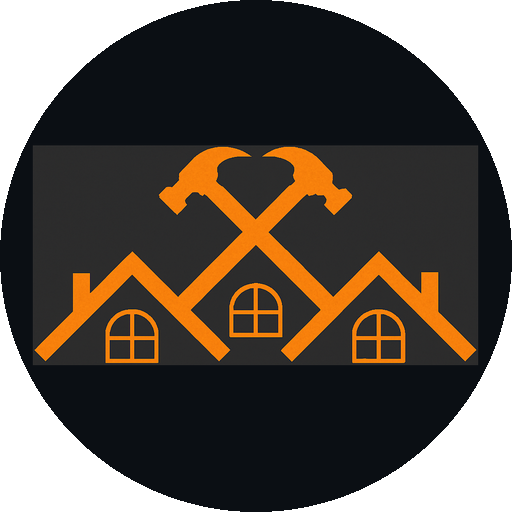
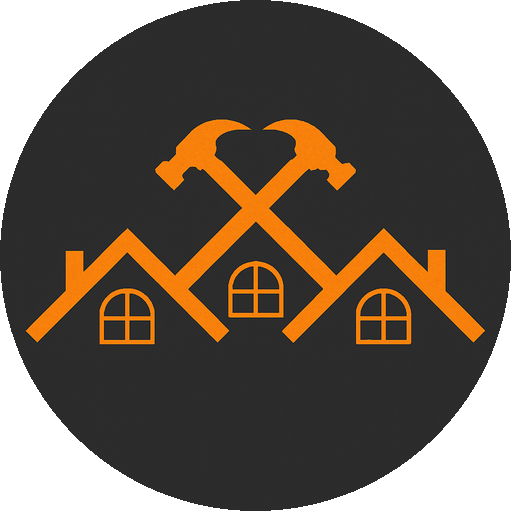
adsf

diff --git a/server/index.ts b/server/index.ts
@@ -1,4 +1,4 @@
-// Load dotenv configuration before anything else (safe in all envs)
+// Load dotenv configuration before anything else (safe in all envs)
 import "dotenv/config";
 
 import express, { type Request, Response, NextFunction } from "express";
@@ -401,7 +401,7 @@ if (!isProductionEnv) {
 
 const corsOptions: cors.CorsOptions = {
   origin: (origin, callback) => {
-    // No origin (curl/server-side) â†’ allow
+    // No origin (curl/server-side) → allow
     if (!origin) return callback(null, true);
     const normalized = origin.toLowerCase();
 
@@ -448,7 +448,7 @@ app.use(cors(corsOptions));
 // Preflight handler
 app.options("*", cors(corsOptions));
 
-// Core body parsing â€“ MUST come before any API routes
+// Core body parsing – MUST come before any API routes
 const bodyLimit = process.env.JSON_BODY_LIMIT || "1mb";
 app.use(express.json({ limit: bodyLimit }));
 app.use(express.urlencoded({ extended: true, limit: bodyLimit }));
@@ -779,14 +779,14 @@ app.use(botReadOnlyGuard);
     <meta charset="UTF-8" />
     <meta http-equiv="refresh" content="2;url=/?__fresh=${fresh}" />
     <meta name="viewport" content="width=device-width, initial-scale=1" />
-    <title>Resetting TradeScoutâ€¦</title>
+    <title>Resetting TradeScout…</title>
     <style>
       body{font-family:system-ui,-apple-system,Segoe UI,Roboto,Inter,Arial,sans-serif;padding:24px;max-width:720px;margin:0 auto;line-height:1.5}
       code{background:#1118270d;padding:2px 6px;border-radius:6px}
     </style>
   </head>
   <body>
-    <h1>Resetting TradeScoutâ€¦</h1>
+    <h1>Resetting TradeScout…</h1>
     <p>Your browser cache and service worker are being cleared.</p>
     <p>If you are not redirected automatically, open <a href="/?__fresh=${fresh}">the homepage</a>.</p>
   </body>
@@ -803,7 +803,7 @@ app.use(botReadOnlyGuard);
   <head>
     <meta charset="UTF-8" />
     <meta name="viewport" content="width=device-width, initial-scale=1" />
-    <title>Resetting Themeâ€¦</title>
+    <title>Resetting Theme…</title>
     <style>
       body{font-family:system-ui,-apple-system,Segoe UI,Roboto,Inter,Arial,sans-serif;padding:24px;max-width:720px;margin:0 auto;line-height:1.5}
       code{background:#1118270d;padding:2px 6px;border-radius:6px}
@@ -811,9 +811,9 @@ app.use(botReadOnlyGuard);
     </style>
   </head>
   <body>
-    <h1>Resetting themeâ€¦</h1>
+    <h1>Resetting theme…</h1>
     <p class="muted">Resetting your saved color scheme + theme preference back to default.</p>
-    <pre id="log" class="muted">Workingâ€¦</pre>
+    <pre id="log" class="muted">Working…</pre>
     <script>
       (async () => {
         const logEl = document.getElementById('log');
@@ -878,7 +878,7 @@ app.use(botReadOnlyGuard);
 
               // Legacy social preview image path compatibility.
               app.get("/tradescout-logo.jpg", (_req, res) => {
-                res.redirect(301, "/tradescout-logo-circle.png?v=7");
+                res.redirect(301, "/tradescout-brand.png?v=8");
               });
 
               app.get(Array.from(identityAssets), (req, res, next) => {
@@ -1462,7 +1462,7 @@ app.use(botReadOnlyGuard);
                 }
 
                 // If an asset was requested but not found by express.static, do NOT
-                // return index.html â€“ this would surface as a MIME-type error in the browser.
+                // return index.html – this would surface as a MIME-type error in the browser.
                 if (reqPath.startsWith("/assets")) {
                   // Avoid caching missing hashed chunks. Some CDNs/proxies will cache 404s,
                   // which can make a partial deploy look "permanently broken".

diff --git a/server/index.prod.ts b/server/index.prod.ts
@@ -1,4 +1,4 @@
-// Load dotenv configuration before anything else (safe in all envs)
+// Load dotenv configuration before anything else (safe in all envs)
 import "dotenv/config";
 
 import express, { type Request, Response, NextFunction } from "express";
@@ -602,14 +602,14 @@ app.use(botReadOnlyGuard);
     <meta charset="UTF-8" />
     <meta http-equiv="refresh" content="2;url=/?__fresh=${fresh}" />
     <meta name="viewport" content="width=device-width, initial-scale=1" />
-    <title>Resetting TradeScoutâ€¦</title>
+    <title>Resetting TradeScout…</title>
     <style>
       body{font-family:system-ui,-apple-system,Segoe UI,Roboto,Inter,Arial,sans-serif;padding:24px;max-width:720px;margin:0 auto;line-height:1.5}
       code{background:#1118270d;padding:2px 6px;border-radius:6px}
     </style>
   </head>
   <body>
-    <h1>Resetting TradeScoutâ€¦</h1>
+    <h1>Resetting TradeScout…</h1>
     <p>Your browser cache and service worker are being cleared for <code>${CANONICAL_WEB_HOST}</code>.</p>
     <p>If you are not redirected automatically, open <a href=\"/?__fresh=${fresh}\">the homepage</a>.</p>
   </body>
@@ -627,7 +627,7 @@ app.use(botReadOnlyGuard);
   <head>
     <meta charset="UTF-8" />
     <meta name="viewport" content="width=device-width, initial-scale=1" />
-    <title>Resetting Themeâ€¦</title>
+    <title>Resetting Theme…</title>
     <style>
       body{font-family:system-ui,-apple-system,Segoe UI,Roboto,Inter,Arial,sans-serif;padding:24px;max-width:720px;margin:0 auto;line-height:1.5}
       code{background:#1118270d;padding:2px 6px;border-radius:6px}
@@ -635,9 +635,9 @@ app.use(botReadOnlyGuard);
     </style>
   </head>
   <body>
-    <h1>Resetting themeâ€¦</h1>
+    <h1>Resetting theme…</h1>
     <p class="muted">Resetting your saved color scheme + theme preference back to default.</p>
-    <pre id="log" class="muted">Workingâ€¦</pre>
+    <pre id="log" class="muted">Working…</pre>
     <script>
       (async () => {
         const logEl = document.getElementById('log');
@@ -706,7 +706,7 @@ app.use(botReadOnlyGuard);
 
             // Legacy social preview image path compatibility.
             app.get("/tradescout-logo.jpg", (_req, res) => {
-              res.redirect(301, "/tradescout-logo-circle.png?v=7");
+              res.redirect(301, "/tradescout-brand.png?v=8");
             });
 
             app.get(Array.from(identityAssets), (req, res, next) => {

diff --git a/client/index.html b/client/index.html
@@ -3,12 +3,12 @@
 <html lang="en">
   <head>
     <meta charset="UTF-8" />
-    <link rel="icon" type="image/png" href="/tradescout-logo-circle.png?v=7" />
-    <link rel="icon" type="image/png" sizes="48x48" href="/favicon-48x48.png?v=7" />
-    <link rel="icon" type="image/png" sizes="32x32" href="/favicon-32x32.png?v=7" />
-    <link rel="icon" type="image/png" sizes="16x16" href="/favicon-16x16.png?v=7" />
-    <link rel="apple-touch-icon" href="/apple-touch-icon.png?v=7" />
-    <link rel="manifest" href="/manifest.json?v=7" />
+    <link rel="icon" type="image/png" href="/tradescout-logo-circle.png?v=9" />
+    <link rel="icon" type="image/png" sizes="48x48" href="/favicon-48x48.png?v=9" />
+    <link rel="icon" type="image/png" sizes="32x32" href="/favicon-32x32.png?v=9" />
+    <link rel="icon" type="image/png" sizes="16x16" href="/favicon-16x16.png?v=9" />
+    <link rel="apple-touch-icon" href="/apple-touch-icon.png?v=9" />
+    <link rel="manifest" href="/manifest.json?v=9" />
     <meta name="theme-color" content="#0B0F14" />
     <meta
       name="viewport"
@@ -37,9 +37,9 @@
     <meta property="og:site_name" content="TradeScout - Connection Without Compromise" />
     <meta property="og:title" content="TradeScout - Connection Without Compromise" />
     <meta property="og:description" content="Find trusted contractors, get quotes, and manage home improvement projects with TradeScout." />
-    <meta property="og:image" content="https://www.thetradescout.com/tradescout-logo-circle.png?v=7" />
+    <meta property="og:image" content="https://www.thetradescout.com/tradescout-brand.png?v=8" />
     <meta name="twitter:card" content="summary_large_image" />
-    <meta name="twitter:image" content="https://www.thetradescout.com/tradescout-logo-circle.png?v=7" />
+    <meta name="twitter:image" content="https://www.thetradescout.com/tradescout-brand.png?v=8" />
     <style>
       #ts-boot-fallback[hidden] {
         display: none !important;

diff --git a/server/publicCountyHtml.ts b/server/publicCountyHtml.ts
@@ -1,4 +1,4 @@
-import { and, asc, desc, eq, sql } from "drizzle-orm";
+import { and, asc, desc, eq, sql } from "drizzle-orm";
 import { db } from "./db";
 import { businessCounties, businesses, counties, users } from "@shared/schema";
 import { US_STATES_COUNTIES } from "@shared/states-counties";
@@ -51,7 +51,7 @@ function buildMeta(args: {
   keywords: string[];
 }) {
   const canonical = `${args.origin}${args.canonicalPath}`;
-  const imageUrl = `${args.origin}/tradescout-logo-circle.png?v=7`;
+  const imageUrl = `${args.origin}/tradescout-brand.png?v=8`;
   return {
     title: args.title.slice(0, 120),
     description: args.description.replace(/\s+/g, " ").trim().slice(0, 300),
@@ -308,7 +308,7 @@ export async function buildPublicCountyHtml(opts: PublicCountyHtmlOptions): Prom
   <article>
     <h1>${escapeHtml(String((county as any).name || ""))}, ${escapeHtml(stateCode)}</h1>
     <p>${escapeHtml(description)}</p>
-    <p><a href="/trade">Browse all trades</a> &nbsp;â€¢&nbsp; <a href="/datasets/cities">Browse cities</a></p>
+    <p><a href="/trade">Browse all trades</a> &nbsp;•&nbsp; <a href="/datasets/cities">Browse cities</a></p>
     ${
       primaryLinks.length
         ? `<h2>Popular trades in this county</h2>

diff --git a/server/publicTradeHtml.ts b/server/publicTradeHtml.ts
@@ -1,4 +1,4 @@
-import { and, asc, eq, or, sql } from "drizzle-orm";
+import { and, asc, eq, or, sql } from "drizzle-orm";
 import { db, pool } from "./db";
 import { businessCounties, businesses, counties, users } from "@shared/schema";
 import {
@@ -101,7 +101,7 @@ function buildTradeMeta(args: {
   keywords: string[];
 }) {
   const canonical = `${args.origin}${args.canonicalPath}`;
-  const imageUrl = `${args.origin}/tradescout-logo-circle.png?v=7`;
+  const imageUrl = `${args.origin}/tradescout-brand.png?v=8`;
   return {
     title: args.title.slice(0, 120),
     description: args.description.replace(/\s+/g, " ").trim().slice(0, 300),
@@ -532,11 +532,11 @@ export async function buildPublicTradeCountyHtml(
     <p>${escapeHtml(description)}</p>
     <p>
       <a href="/trade/${encodeURIComponent(canonicalSlug)}">All states</a>
-      &nbsp;â€¢&nbsp;
+      &nbsp;•&nbsp;
       <a href="/trade/${encodeURIComponent(canonicalSlug)}/${encodeURIComponent(
         stateCode.toLowerCase()
       )}">${escapeHtml(state.name)} counties</a>
-      &nbsp;â€¢&nbsp;
+      &nbsp;•&nbsp;
       <a href="/county/${encodeURIComponent(stateCode.toLowerCase())}/${encodeURIComponent(
         countySlug
       )}">County page</a>

diff --git a/client/src/components/SEOHelmet.tsx b/client/src/components/SEOHelmet.tsx
@@ -19,7 +19,7 @@ export function SEOHelmet({
   keywords = "scout, local helper, local contractors, home improvement, verified contractors, free quotes, trusted contractors, roofing, plumbing, electrical",
   canonical,
   ogType = "website",
-  ogImage = "/tradescout-logo-circle.png?v=7",
+  ogImage = "/tradescout-brand.png?v=8",
   structuredData,
   noIndex = false,
 }: SEOHelmetProps) {
@@ -226,8 +226,8 @@ export const createOrganizationStructuredData = () => ({
   name: "TradeScout",
   description: "Platform connecting residents, pros, organizations, and verified local contractors",
   url: getCanonicalOrigin(),
-  logo: `${getCanonicalOrigin()}/tradescout-logo-circle.png?v=7`,
-  image: `${getCanonicalOrigin()}/tradescout-logo-circle.png?v=7`,
+  logo: `${getCanonicalOrigin()}/tradescout-brand.png?v=8`,
+  image: `${getCanonicalOrigin()}/tradescout-brand.png?v=8`,
   address: {
     "@type": "PostalAddress",
     addressCountry: "US",

diff --git a/server/publicBestHtml.ts b/server/publicBestHtml.ts
@@ -1,4 +1,4 @@
-import { and, asc, desc, eq, or, sql } from "drizzle-orm";
+import { and, asc, desc, eq, or, sql } from "drizzle-orm";
 import { db } from "./db";
 import { businessCounties, businesses, counties, users } from "@shared/schema";
 import { US_STATES_COUNTIES } from "@shared/states-counties";
@@ -56,7 +56,7 @@ function buildMeta(args: {
   keywords: string[];
 }) {
   const canonical = `${args.origin}${args.canonicalPath}`;
-  const imageUrl = `${args.origin}/tradescout-logo-circle.png?v=7`;
+  const imageUrl = `${args.origin}/tradescout-brand.png?v=8`;
   return {
     title: formatTradeScoutTitle(args.title).slice(0, 120),
     description: args.description.replace(/\s+/g, " ").trim().slice(0, 300),

diff --git a/server/publicTradeCityHtml.ts b/server/publicTradeCityHtml.ts
@@ -1,4 +1,4 @@
-import { and, asc, eq, or, sql } from "drizzle-orm";
+import { and, asc, eq, or, sql } from "drizzle-orm";
 import { db } from "./db";
 import { businessCounties, businesses, counties } from "@shared/schema";
 import { getTradeSeoMatch, normalizeTradeSlug } from "@shared/tradeSeo";
@@ -69,7 +69,7 @@ function buildMeta(args: {
   keywords: string[];
 }) {
   const canonical = `${args.origin}${args.canonicalPath}`;
-  const imageUrl = `${args.origin}/tradescout-logo-circle.png?v=7`;
+  const imageUrl = `${args.origin}/tradescout-brand.png?v=8`;
   return {
     title: formatTradeScoutTitle(args.title).slice(0, 120),
     description: args.description.replace(/\s+/g, " ").trim().slice(0, 300),

diff --git a/server/publicDatasetsHtml.ts b/server/publicDatasetsHtml.ts
@@ -1,4 +1,4 @@
-import { PRIMARY_TRADE_SLUGS, getTradeBySlug, slugifyCountyName } from "@shared/tradeSeo";
+import { PRIMARY_TRADE_SLUGS, getTradeBySlug, slugifyCountyName } from "@shared/tradeSeo";
 import { formatTradeScoutTitle } from "@shared/brand";
 import { storage } from "./storage";
 
@@ -36,7 +36,7 @@ function buildMeta(args: {
   keywords: string[];
 }) {
   const canonical = `${args.origin}${args.canonicalPath}`;
-  const imageUrl = `${args.origin}/tradescout-logo-circle.png?v=7`;
+  const imageUrl = `${args.origin}/tradescout-brand.png?v=8`;
   return {
     title: formatTradeScoutTitle(args.title).slice(0, 120),
     description: args.description.replace(/\s+/g, " ").trim().slice(0, 300),

diff --git a/server/publicProfileHtml.ts b/server/publicProfileHtml.ts
@@ -1,4 +1,4 @@
-import { storage } from "./storage";
+import { storage } from "./storage";
 import { formatTradeScoutTitle } from "@shared/brand";
 
 type PublicProfileHtmlOptions = {
@@ -100,7 +100,7 @@ function buildMeta(profile: PublicProfileData, origin: string) {
     profile.profile.servicesDescription ||
     profile.profile.roleContext ||
     "TradeScout public profile";
-  const imageUrl = profile.profile.seoMeta?.imageUrl || `${origin}/tradescout-logo-circle.png?v=7`;
+  const imageUrl = profile.profile.seoMeta?.imageUrl || `${origin}/tradescout-brand.png?v=8`;
   const canonical = `${origin}/u/${encodeURIComponent(profile.profile.slug)}`;
   const keywords = [
     displayName,

diff --git a/server/publicRecentHtml.ts b/server/publicRecentHtml.ts
@@ -1,4 +1,4 @@
-import { and, desc, eq, sql } from "drizzle-orm";
+import { and, desc, eq, sql } from "drizzle-orm";
 import { db } from "./db";
 import { counties, tsPublicActivity } from "@shared/schema";
 import { US_STATES_COUNTIES } from "@shared/states-counties";
@@ -50,7 +50,7 @@ function buildMeta(args: {
   keywords: string[];
 }) {
   const canonical = `${args.origin}${args.canonicalPath}`;
-  const imageUrl = `${args.origin}/tradescout-logo-circle.png?v=7`;
+  const imageUrl = `${args.origin}/tradescout-brand.png?v=8`;
   return {
     title: formatTradeScoutTitle(args.title).slice(0, 120),
     description: args.description.replace(/\s+/g, " ").trim().slice(0, 300),

diff --git a/server/publicCityHtml.ts b/server/publicCityHtml.ts
@@ -1,4 +1,4 @@
-import { and, asc, eq, sql } from "drizzle-orm";
+import { and, asc, eq, sql } from "drizzle-orm";
 import { db } from "./db";
 import { businessCounties, businesses, counties } from "@shared/schema";
 import { getPublicationRules } from "./publicationRules";
@@ -51,7 +51,7 @@ function buildMeta(args: {
   keywords: string[];
 }) {
   const canonical = `${args.origin}${args.canonicalPath}`;
-  const imageUrl = `${args.origin}/tradescout-logo-circle.png?v=7`;
+  const imageUrl = `${args.origin}/tradescout-brand.png?v=8`;
   return {
     title: args.title.slice(0, 120),
     description: args.description.replace(/\s+/g, " ").trim().slice(0, 300),
